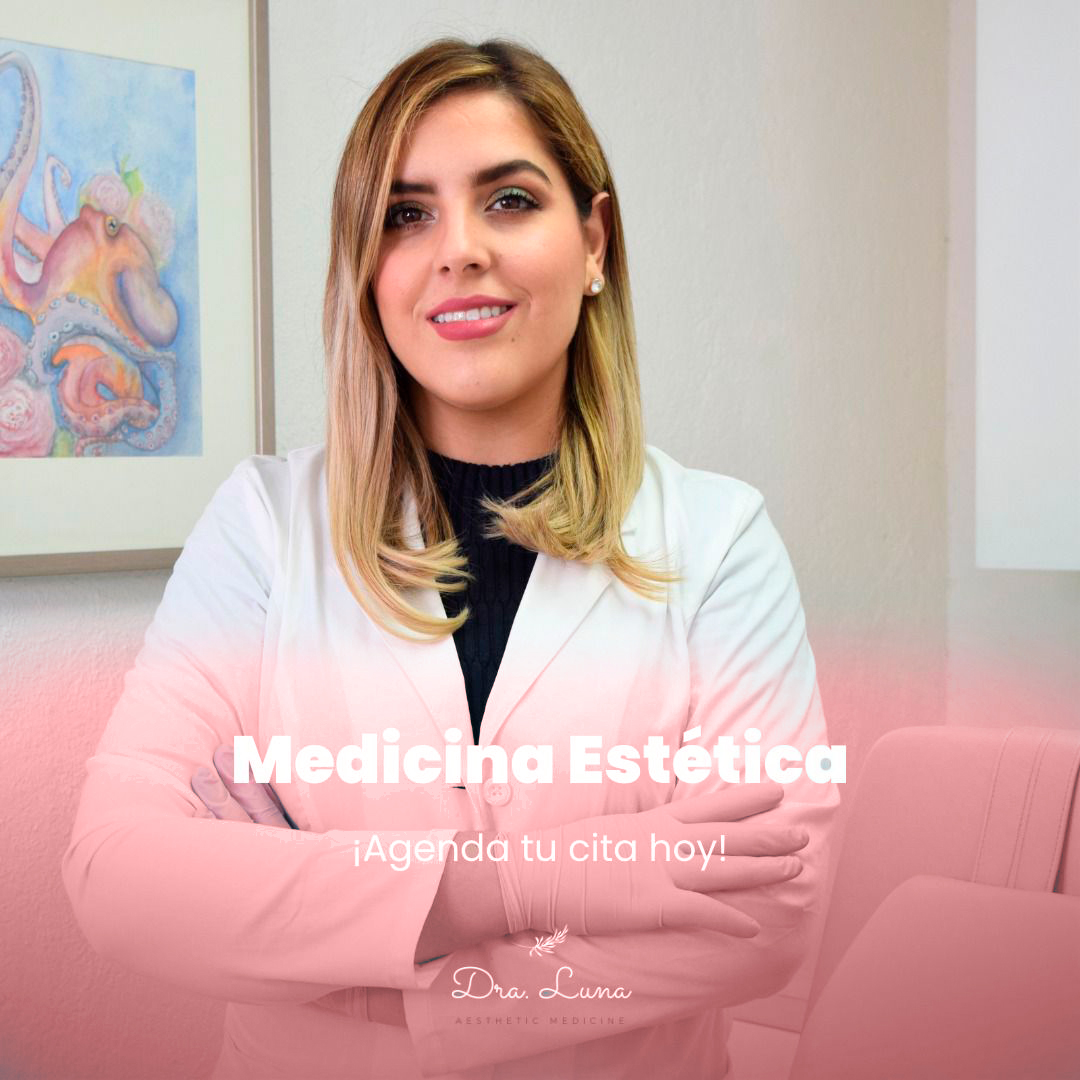
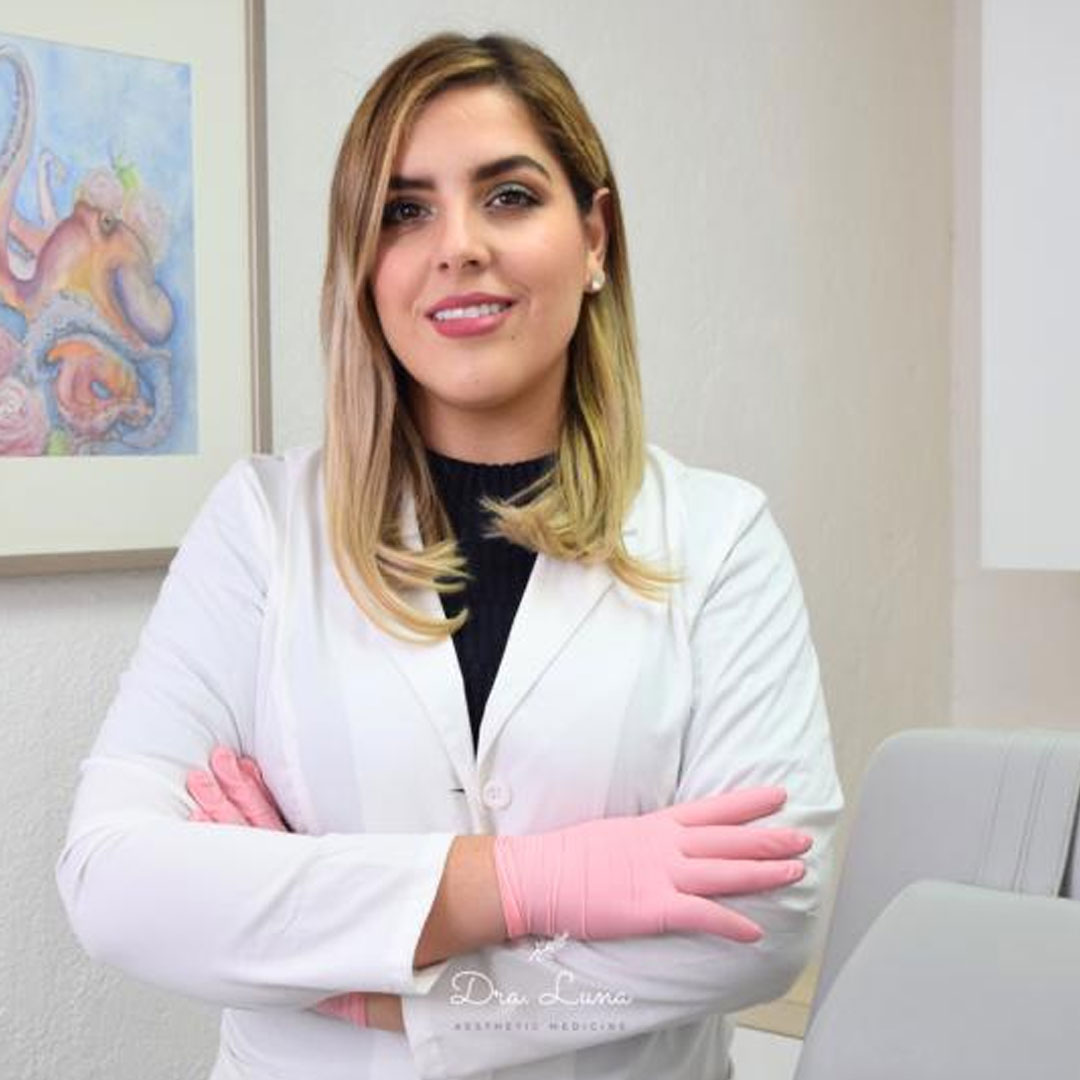
:construction: Change some images

diff --git a/index.html b/index.html
@@ -411,6 +411,13 @@
             >
               <h3>Experiencia profesional</h3>
               <p>Doctora Alejandra Luna</p>
+              <div class="img-experience">
+                <h4>Universidad Autónoma de Aguascalientes.</h4>
+                <img
+                  src="./assets/img/universidad-autonoma-aguascalientes.jpg"
+                  alt="Medicina en la Universidad Autónoma de Aguascalientes"
+                />
+              </div>
 
               <div class="img-experience">
                 <h4>
@@ -575,7 +582,7 @@
           <!-- Imagen 1 -->
           <div class="col-md-4 mb-4">
             <img
-              src="./assets/img/medicina-estetica.jpeg"
+              src="./assets/img/dra-alejandra-luna.jpeg"
               alt="Medicina Estética de Calidad"
               class="img-fluid"
             />
@@ -583,7 +590,7 @@
           <!-- Imagen 2 -->
           <div class="col-md-4 mb-4">
             <img
-              src="./assets/img/agenda-tu-cita.jpeg"
+              src="./assets/img/agenda-tu-cita.jpg"
               alt="Agenda una cita de medicina estética"
               class="img-fluid"
             />
@@ -591,7 +598,7 @@
           <!-- Imagen 3 -->
           <div class="col-md-4 mb-4">
             <img
-              src="./assets/img/dra-luna.jpeg"
+              src="./assets/img/dra-luna.jpg"
               alt="Dra Luna Aesthetic"
               class="img-fluid"
             />

diff --git a/assets/css/style.css b/assets/css/style.css
@@ -1681,7 +1681,7 @@ section {
 }
 
 #doctora .video-box {
-  background: url('../img/dra-alejandra-luna.jpeg');
+  background: url('../img/medicina-estetica.jpeg');
   background-position: center center;
   background-size: contain;
   background-repeat: no-repeat;
